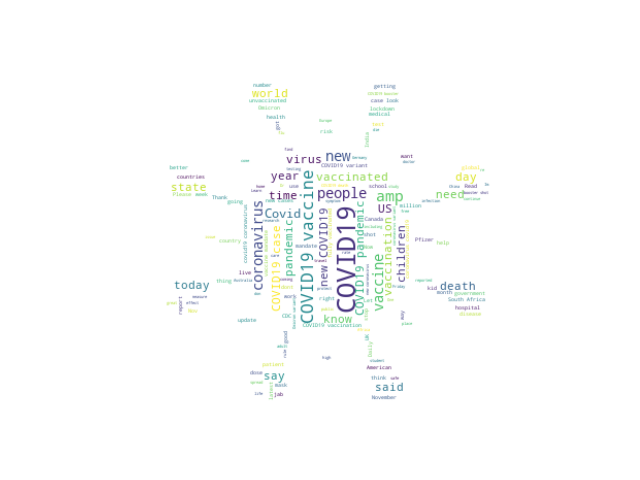
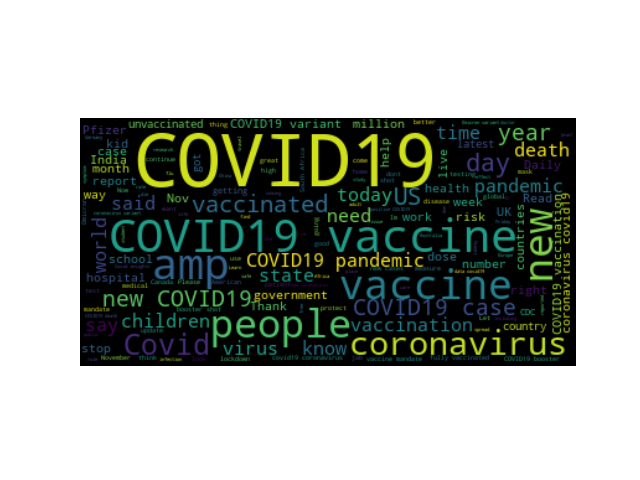
Unmasked wordclouds

diff --git a/core/popularWords.py b/core/popularWords.py
@@ -58,13 +58,13 @@ def gen(strText,path):
     plt.imshow(wc, interpolation='bilinear')
     plt.axis('off')
     plt.savefig(path)
-    plt.show()
+    #plt.show()
 
 
 #Generate one WordCloud per month
 COVIDdf = COVIDdf[COVIDdf["lang"]=="en"]
 strText = splitByMonth(COVIDdf)
-direct = 'WordCloudsEnglish/'
+direct = 'WordCloudsMask/'
 for month in strText:
     #fileName = direct + str(month.iloc[0]["datetime"].to_period('M')) + ".png"
     fileName = direct + str(month.iloc[0])[-34:-27] + ".png"
